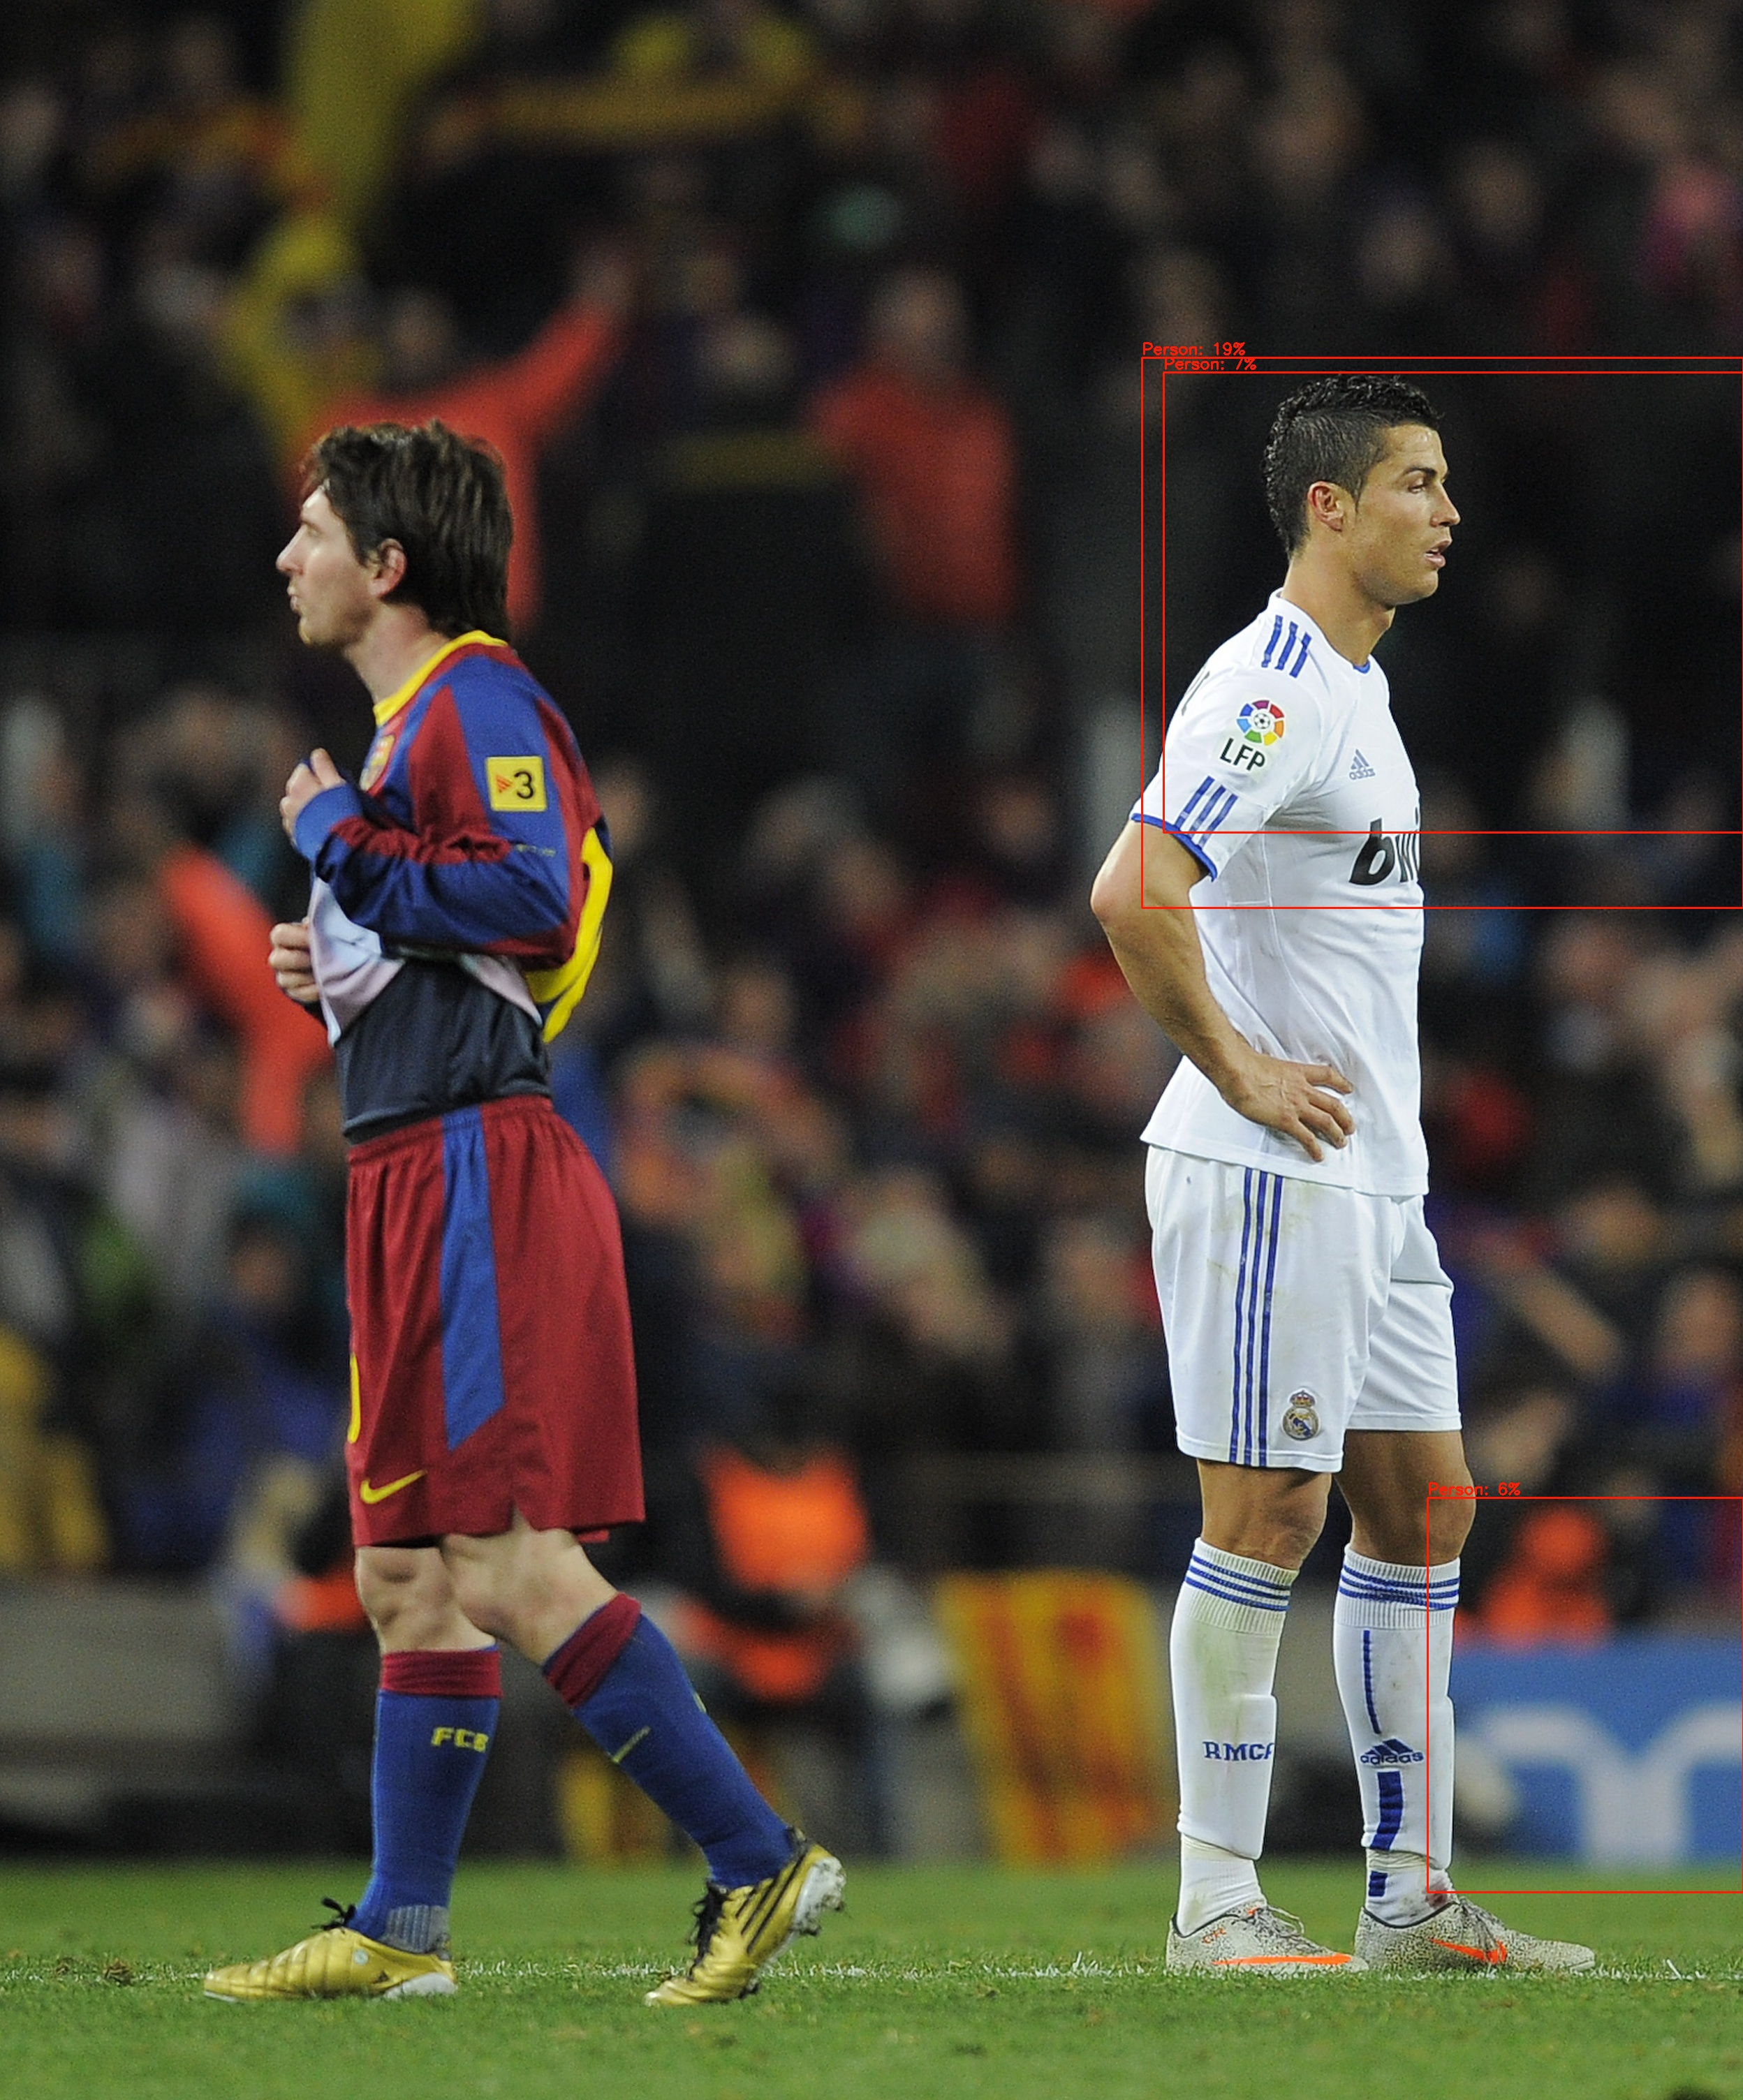
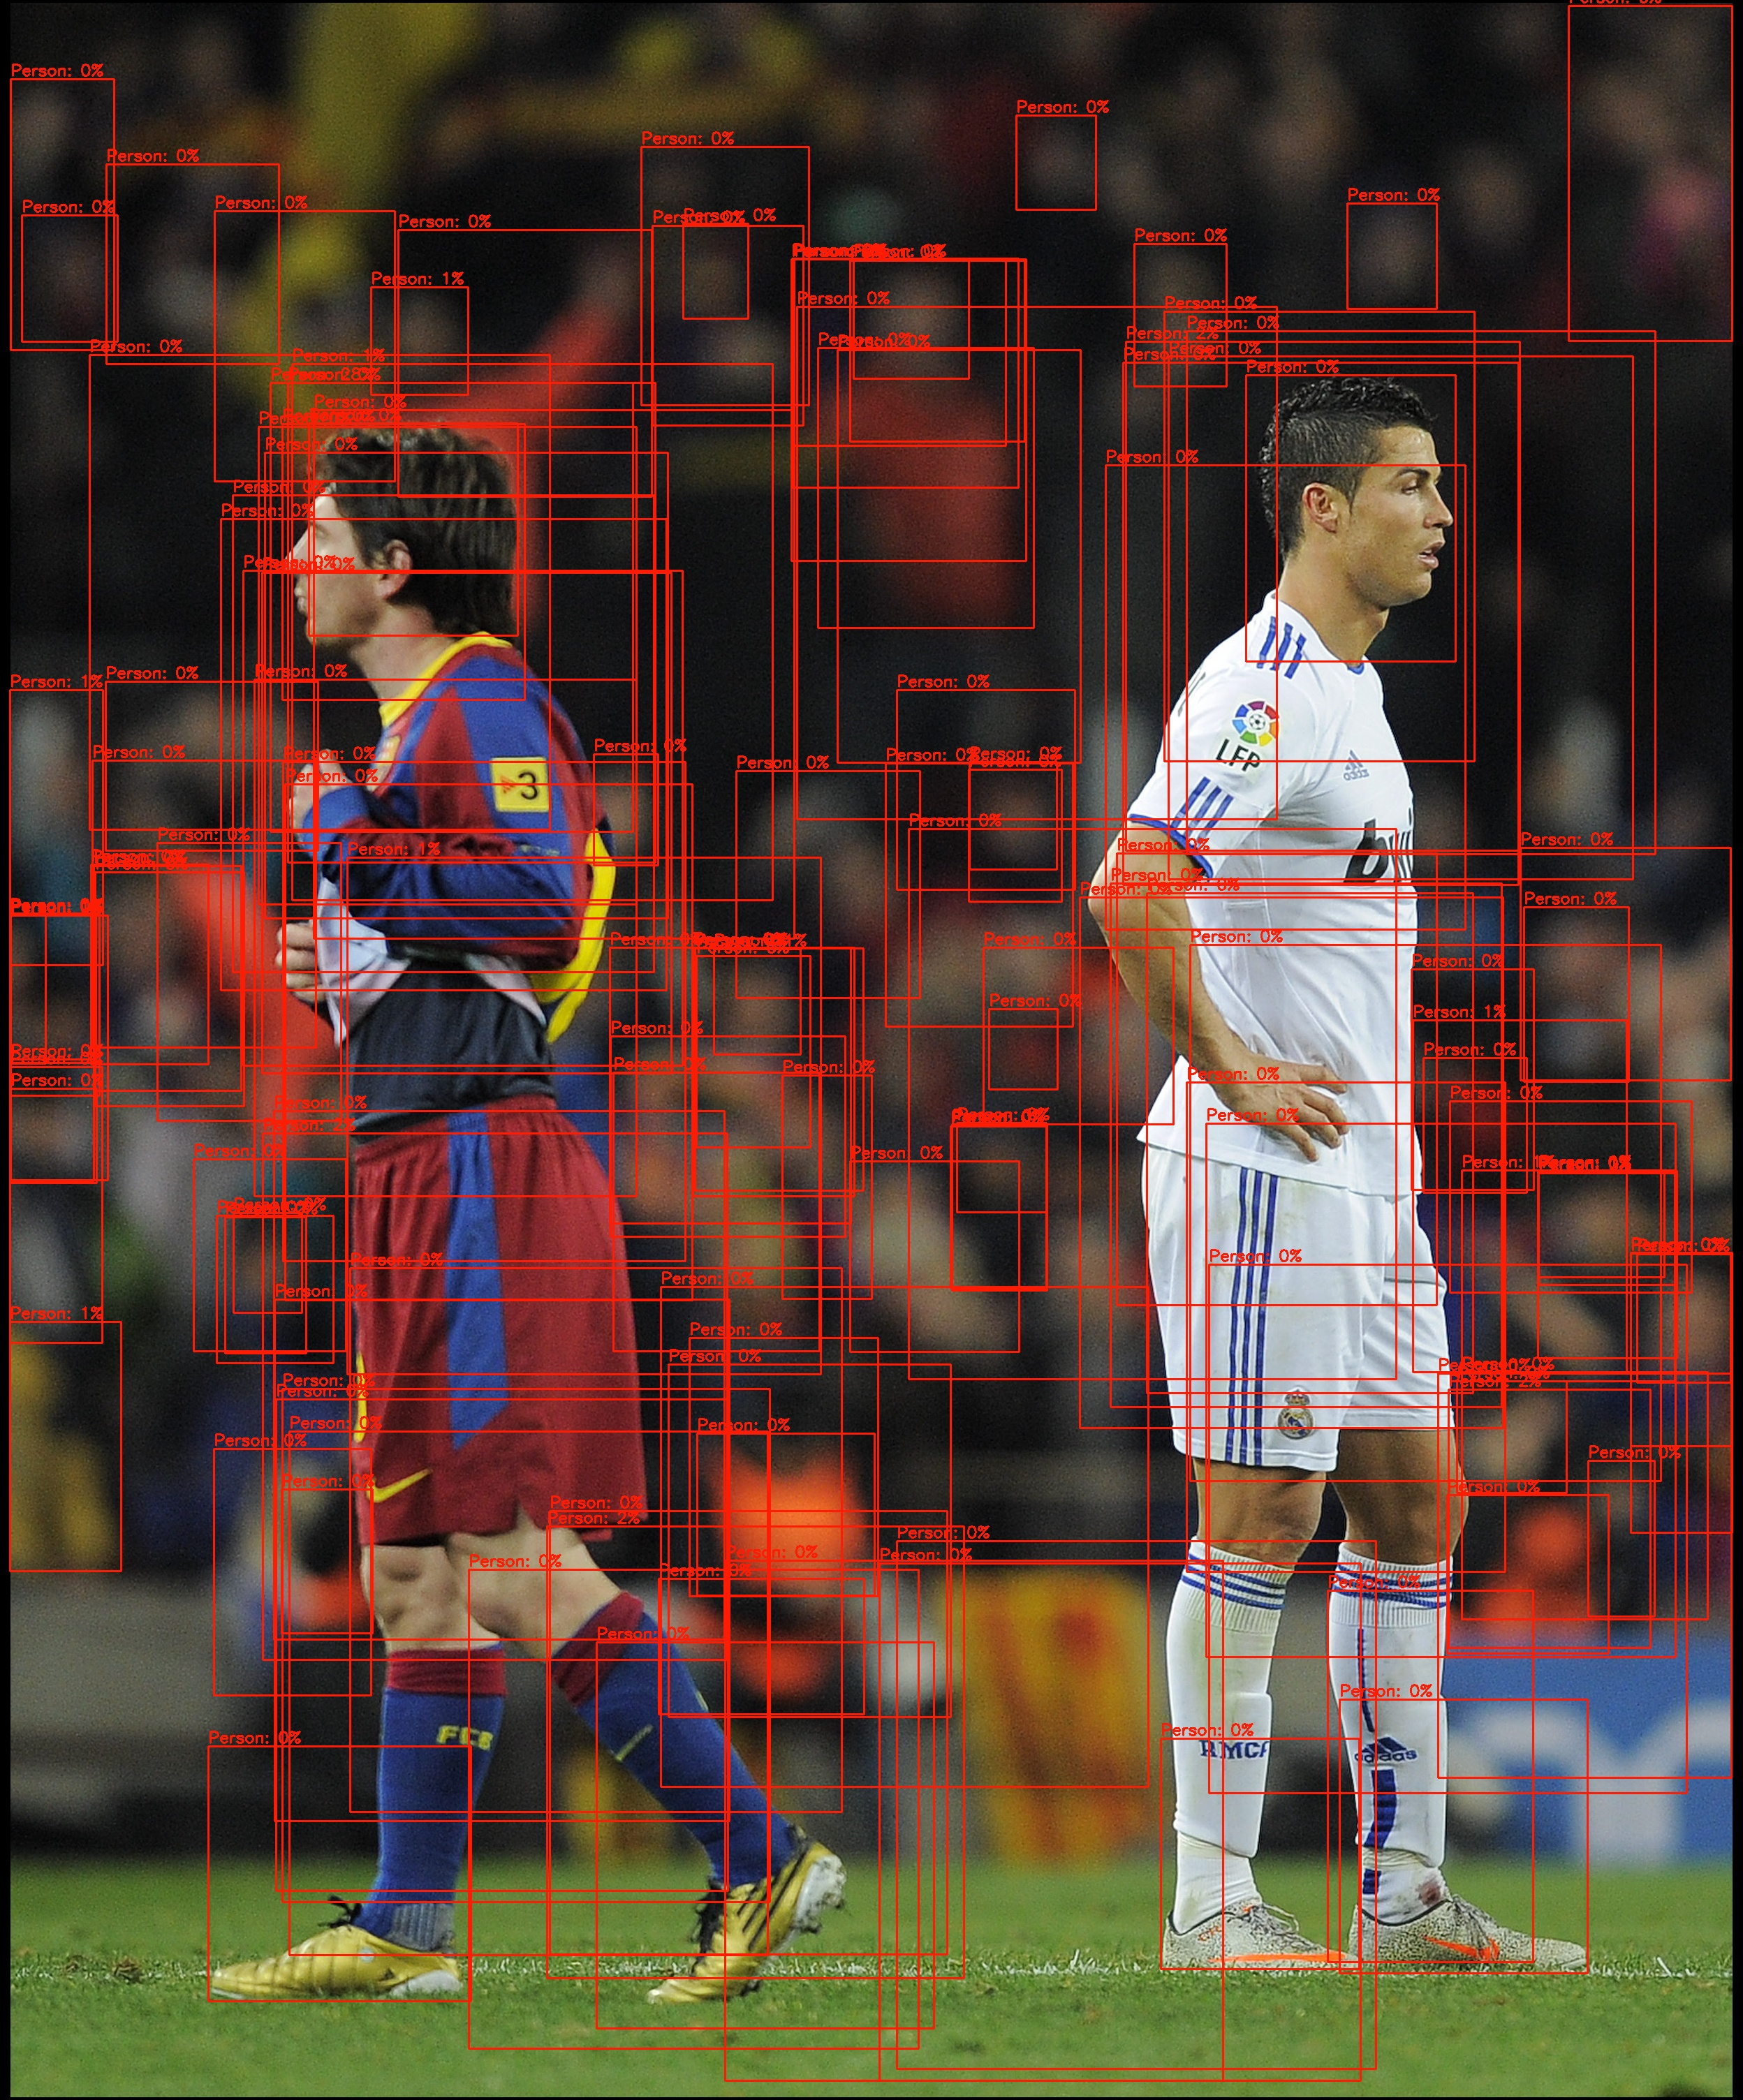
streamlining output processing, fixing image resizing

diff --git a/TestCode/PerformInferencing.cs b/TestCode/PerformInferencing.cs
@@ -1,4 +1,6 @@
+using System.Buffers;
 using System.Collections.Immutable;
+using System.ComponentModel.DataAnnotations.Schema;
 using System.Data;
 using System.Drawing.Imaging.Effects;
 using System.Net.Security;
@@ -16,14 +18,18 @@ class PerformInferencing
 {
     public static void Run(string modelpath, string imgPath)
     {
-        InferenceSession? currmodel = null;
-        SessionOptions opt = new SessionOptions();
-        //append CUDA EP to list first for priority
-        opt.AppendExecutionProvider_CUDA();
-        opt.AppendExecutionProvider_CPU();
-
-        try{currmodel = new InferenceSession(modelpath, opt);}
-        catch{Console.WriteLine("Failed to create inference session"); return;}                
+        InferenceSession currmodel;
+        try
+        {
+            using var options = SessionOptions.MakeSessionOptionWithCudaProvider(0);
+            currmodel = new InferenceSession(modelpath, options);
+            // use CUDA
+        }
+        catch
+        {
+            currmodel = new InferenceSession(modelpath);
+            // use CPU
+        }              
 
 
         Mat frame = Cv2.ImRead(imgPath); //image resized(images are required to fit a dimension divisible by 32)
@@ -32,8 +38,9 @@ class PerformInferencing
 
         IDisposableReadOnlyCollection<OrtValue> sampleOutput;
         sampleOutput = infer(src, shape, currmodel);
+        ImmutableList<Detection> detections = parseOutputData(sampleOutput);
         // getOutputInfo(sampleOutput);
-        plotDetections(sampleOutput, imgPath);
+        plotDetections(detections, imgPath);
         
         sampleOutput.Dispose();
         
@@ -92,64 +99,65 @@ class PerformInferencing
         return;
     }
     
-    private static ImmutableList<Detection> filterByConfidence(ReadOnlySpan<float> outputData, double cfdThreshold)
+    private static ImmutableList<Detection> parseOutputData(IDisposableReadOnlyCollection<OrtValue> data)
+    {
+        OrtValue data_0 = data[0];
+        ReadOnlySpan<float> dataSpan = data_0.GetTensorDataAsSpan<float>();
+        
+        List<Detection> List = new List<Detection>();
+        for(int i = 0; i < dataSpan.Length; i+=6)
+        {
+            Detection newDet = new Detection(
+                    dataSpan[i+0],
+                    dataSpan[i+1],
+                    dataSpan[i+2],
+                    dataSpan[i+3],
+                    dataSpan[i+4],
+                    dataSpan[i+5]);
+            List.Add(newDet);
+        }
+        ImmutableList<Detection> retList = List.ToImmutableList<Detection>();
+
+        return retList;
+    }
+
+    private static ImmutableList<Detection> filterByConfidence(ImmutableList<Detection> outputData, double cfdThreshold)
     {
         List<Detection> List = new List<Detection>();
 
-        for(int i = 0; i < outputData.Length; i+=6)
+        for(int i = 0; i < outputData.Count; i++)
         {
-            if(outputData[i+4] >= cfdThreshold)
-            {
-                Detection newDet = new Detection(
-                    outputData[i+0],
-                    outputData[i+1],
-                    outputData[i+2],
-                    outputData[i+3],
-                    outputData[i+4],
-                    outputData[i+5]);
-                    List.Add(newDet);
-            }
+            if(outputData[i].conf >= cfdThreshold){List.Add(outputData[i]);}
         }
         ImmutableList<Detection> retList = List.ToImmutableList();
         
         return retList;
     }
 
-    private static ImmutableList<Detection> filterByClass(ReadOnlySpan<float> outputData, int classID)
+    private static ImmutableList<Detection> filterByClass(ImmutableList<Detection> outputData, int classID)
     {
         List<Detection> List = new List<Detection>();
 
-        for(int i = 0; i < outputData.Length; i+=6)
+        for(int i = 0; i < outputData.Count; i++)
         {
-            if(outputData[i+5] == classID)
-            {
-                Detection newDet = new Detection(
-                    outputData[i+0],
-                    outputData[i+1],
-                    outputData[i+2],
-                    outputData[i+3],
-                    outputData[i+4],
-                    outputData[i+5]
-                    );
-                    List.Add(newDet);
-            }
+            if(outputData[i].classID == classID){List.Add(outputData[i]);}
         }
         ImmutableList<Detection> retList = List.ToImmutableList();
         
         return retList;
     }
 
-    private static void plotDetections(IDisposableReadOnlyCollection<OrtValue> output, string imgPath)
+    private static void plotDetections(ImmutableList<Detection> output, string imgPath)
     {
-        OrtValue output_0 = output[0];
-        ReadOnlySpan<float> outputSpan = output_0.GetTensorDataAsSpan<float>();
-        ImmutableList<Detection> outputData = filterByClass(outputSpan, 0); 
-        // ImmutableList<Detection> outputData = filterByConfidence(outputSpan, 0.75);
+
+        ImmutableList<Detection> outputData = filterByClass(output, 0); 
+        // ImmutableList<Detection> outputData = filterByConfidence(outputByClass, 0.60);
+
         Mat frame = Cv2.ImRead(imgPath);
 
         float x1, y1, x2, y2, cfd, cls, width, height;
         int ConfAsPercent;
-        for(int det = 0; det < 3; det++)
+        for(int det = 0; det < outputData.Count; det++)
         {
             if(det >= outputData.Count){break;}
             //prepare data for each detection 
@@ -161,15 +169,16 @@ class PerformInferencing
             cls = outputData[det].classID;
             ConfAsPercent = (int)(cfd*100);
             
-            width = x2 = x1;
+            width = x2-x1;
             height = y2-y1;
 
-            Console.WriteLine(x1 + " " + y1 +  " " + x2 + " " + y2 + " " + width + " " + height + " " + cfd + " " + cls);   
+            Console.WriteLine("Detection no." + det + ": " + x1 + " " + y1 +  " " + x2 + " " + y2 + " " + width + " " + height + " " + cfd + " " + cls);   
 
             //plot our detection
             plotSingularDetection((int)x1,(int)y1,(int)width,(int)height,ConfAsPercent, frame);
         }
-        Cv2.ImWrite("bbFrame.jpg", frame);
+
+        Cv2.ImWrite("bbFrame.jpg", frame);        
         return;
     }
 

diff --git a/TestCode/ImgResizev1.cs b/TestCode/ImgResizev1.cs
@@ -1,4 +1,5 @@
 using System.Drawing.Imaging;
+using System.Runtime.CompilerServices;
 using OpenCvSharp;
 
 class ImgResizev1
@@ -15,11 +16,33 @@ class ImgResizev1
         Console.WriteLine("Original dims: " + frame.Width + "x" + frame.Height);
         Console.WriteLine("Aligned up dims: " + aUWidth  + "x" + aUHeight);
         Console.WriteLine("Aligned down dims: " + aDWidth + "x" + aDHeight);
-        Size newsize = new Size(aUWidth, aUHeight);
-        Cv2.Resize(frame, frame, newsize);
-        Cv2.ImWrite("rs-frame.jpg", frame);
+
+        performPadding(frame, aUWidth, aUHeight);
+        // performResize(frame, aUWidth, aUHeight);
+
+        Cv2.ImWrite("imrs-frame.jpg", frame);
         return;
     }
+
+    private static void performPadding(Mat frame, int upsizedWidth, int upsizedHeight)
+    {
+        int widthDiff = upsizedWidth - frame.Width;
+        int heightDiff = upsizedHeight - frame.Height;
+        Mat retFrame = new Mat();
+        
+    
+        Cv2.CopyMakeBorder(frame, frame, heightDiff/2, heightDiff-(heightDiff/2), widthDiff/2, widthDiff-(widthDiff/2), BorderTypes.Isolated);
+        return;
+    }
+
+    private static void performResize(Mat frame, int upsizedWidth, int upsizedHeight)
+    {
+        Size newsize = new Size(upsizedWidth, upsizedHeight);
+        Cv2.Resize(frame,frame, newsize);
+
+        return;
+    }
+
 
     private static bool ValidateImgDim(Mat frame)
     {

diff --git a/TestCode/Program.cs b/TestCode/Program.cs
@@ -7,7 +7,7 @@ class Program
         //change program name/ filepath accordingly
         // PreprocessingTest.Run("../testImgs/imrs-sampleWebcam.jpg");
         ImgResizev1.Run("../testImgs/MessiRonaldo2.jpg");
-        PerformInferencing.Run("../TestAssets/yolo26n.onnx", "rs-frame.jpg");
+        PerformInferencing.Run("../TestAssets/yolo26m.onnx", "imrs-frame.jpg");
         // ModelInfo.Run("../TestAssets/yolo26m.onnx");
         
 